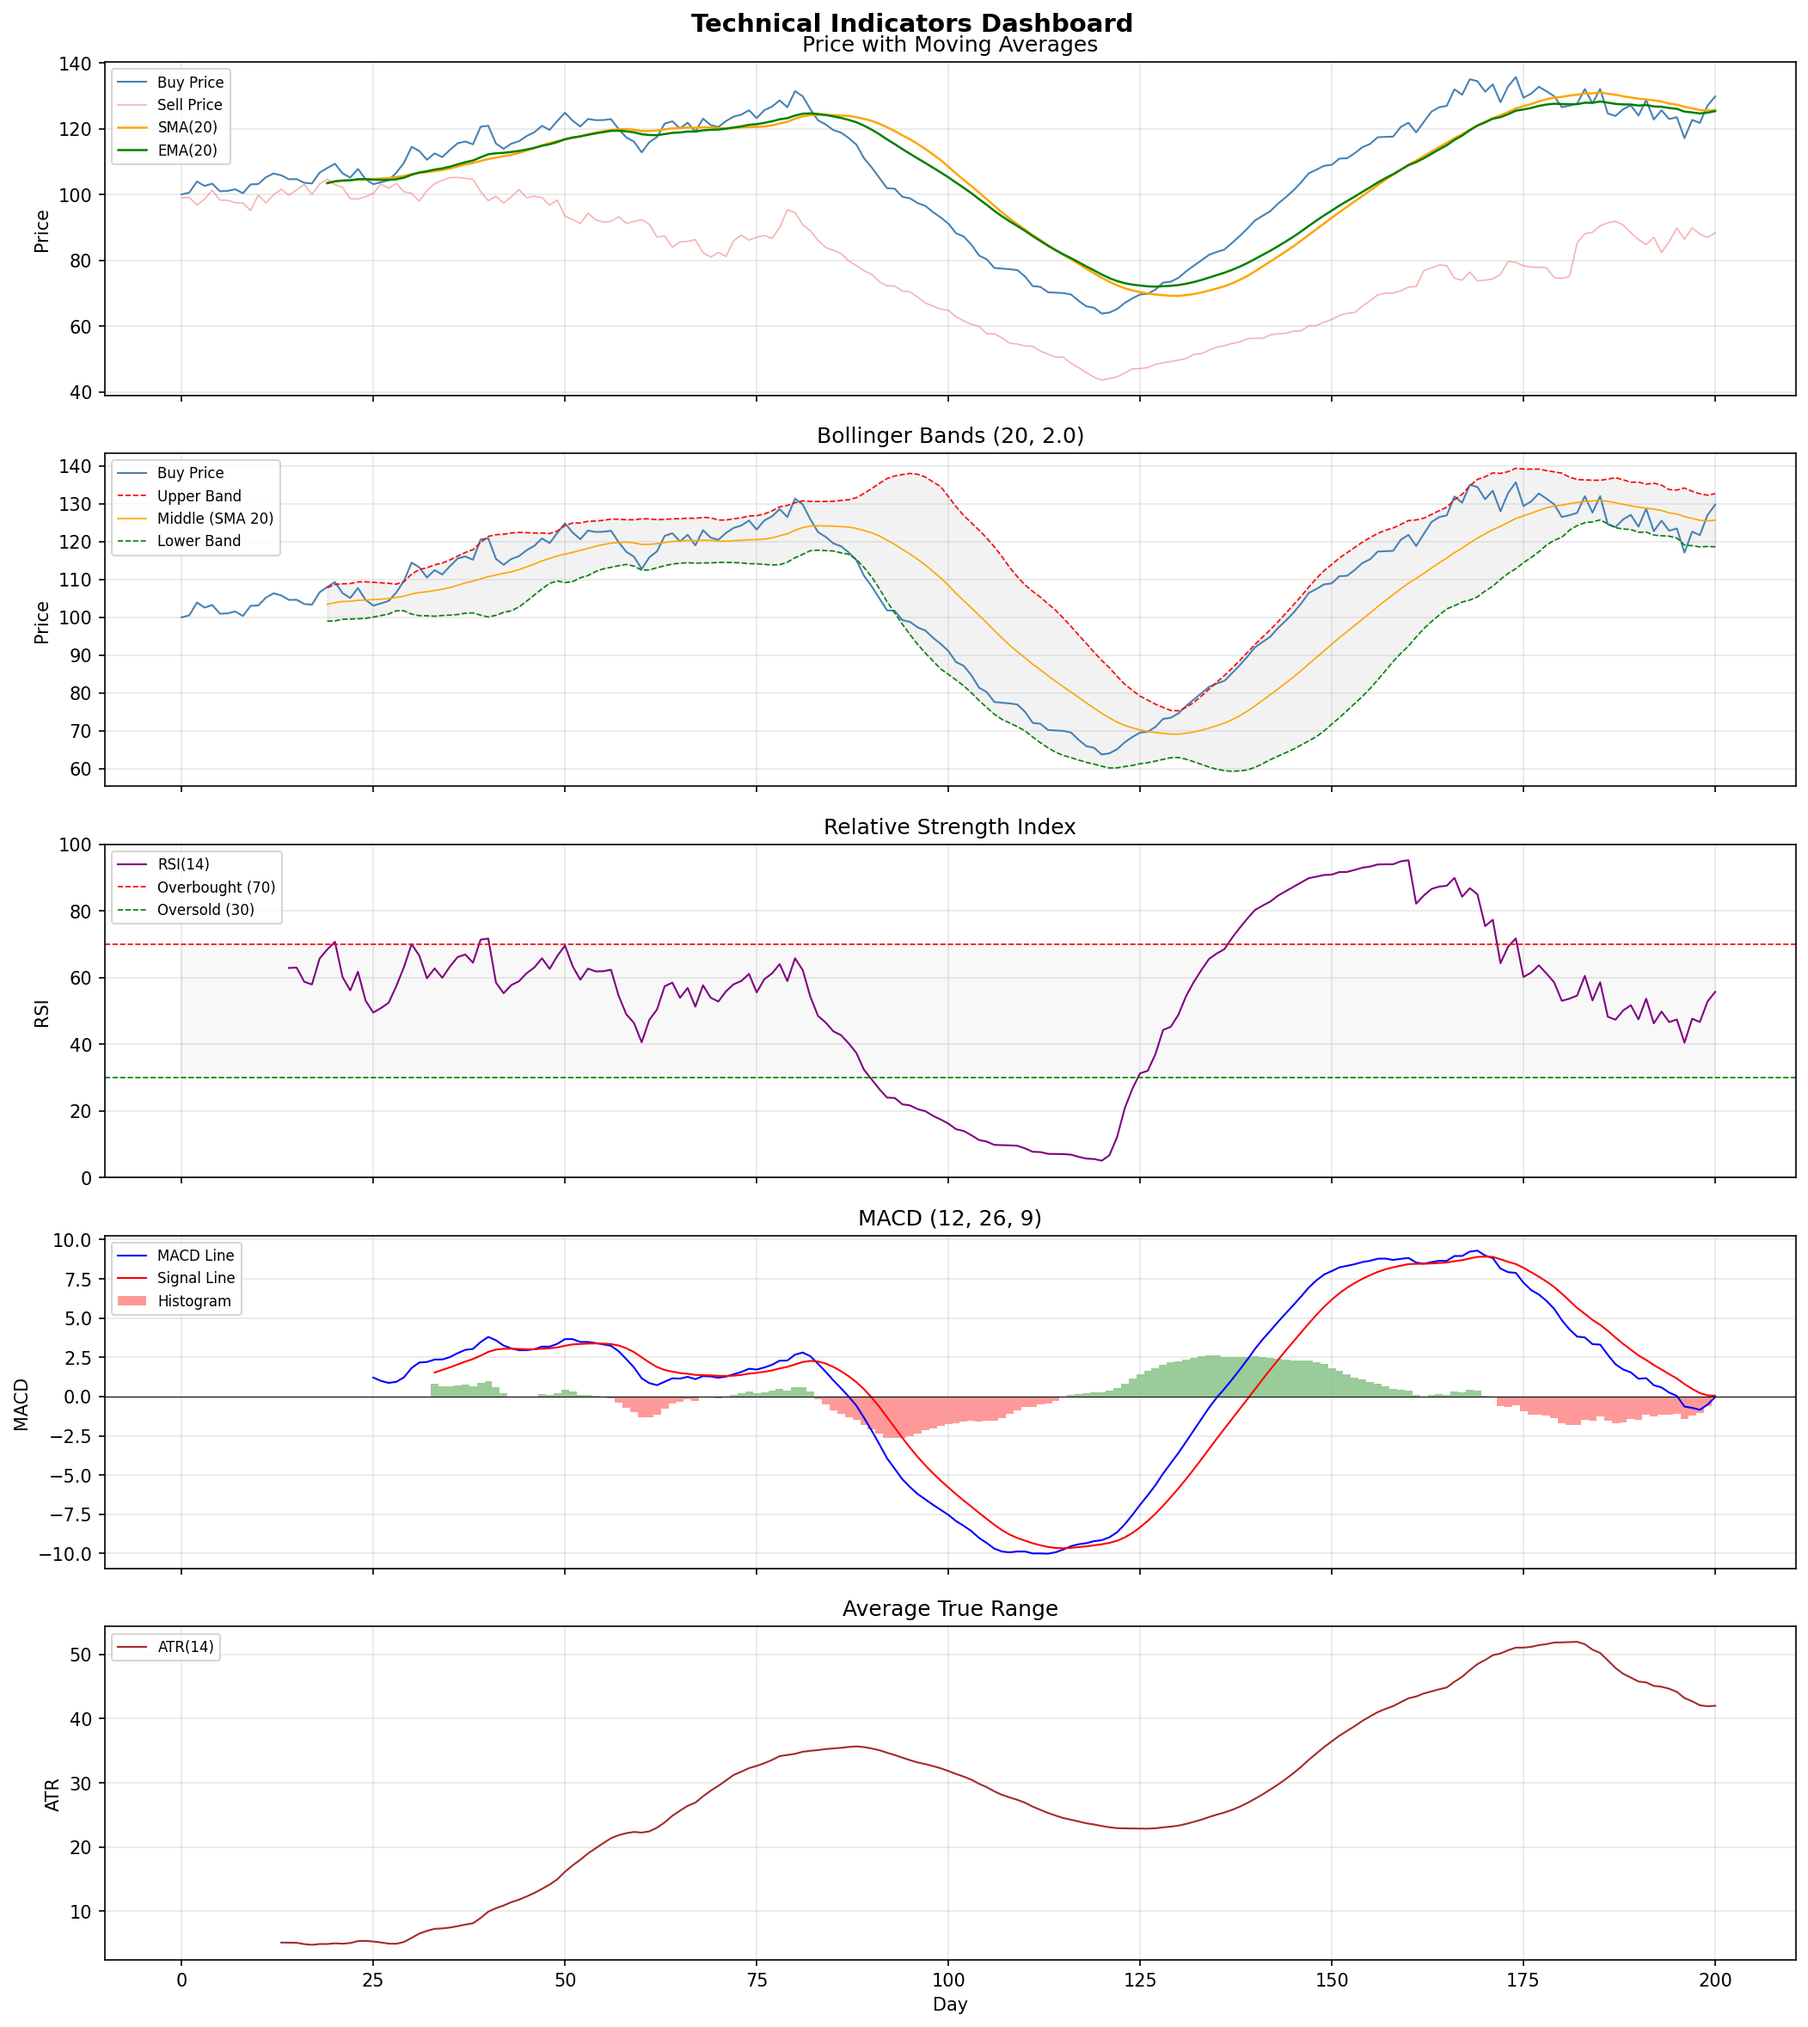
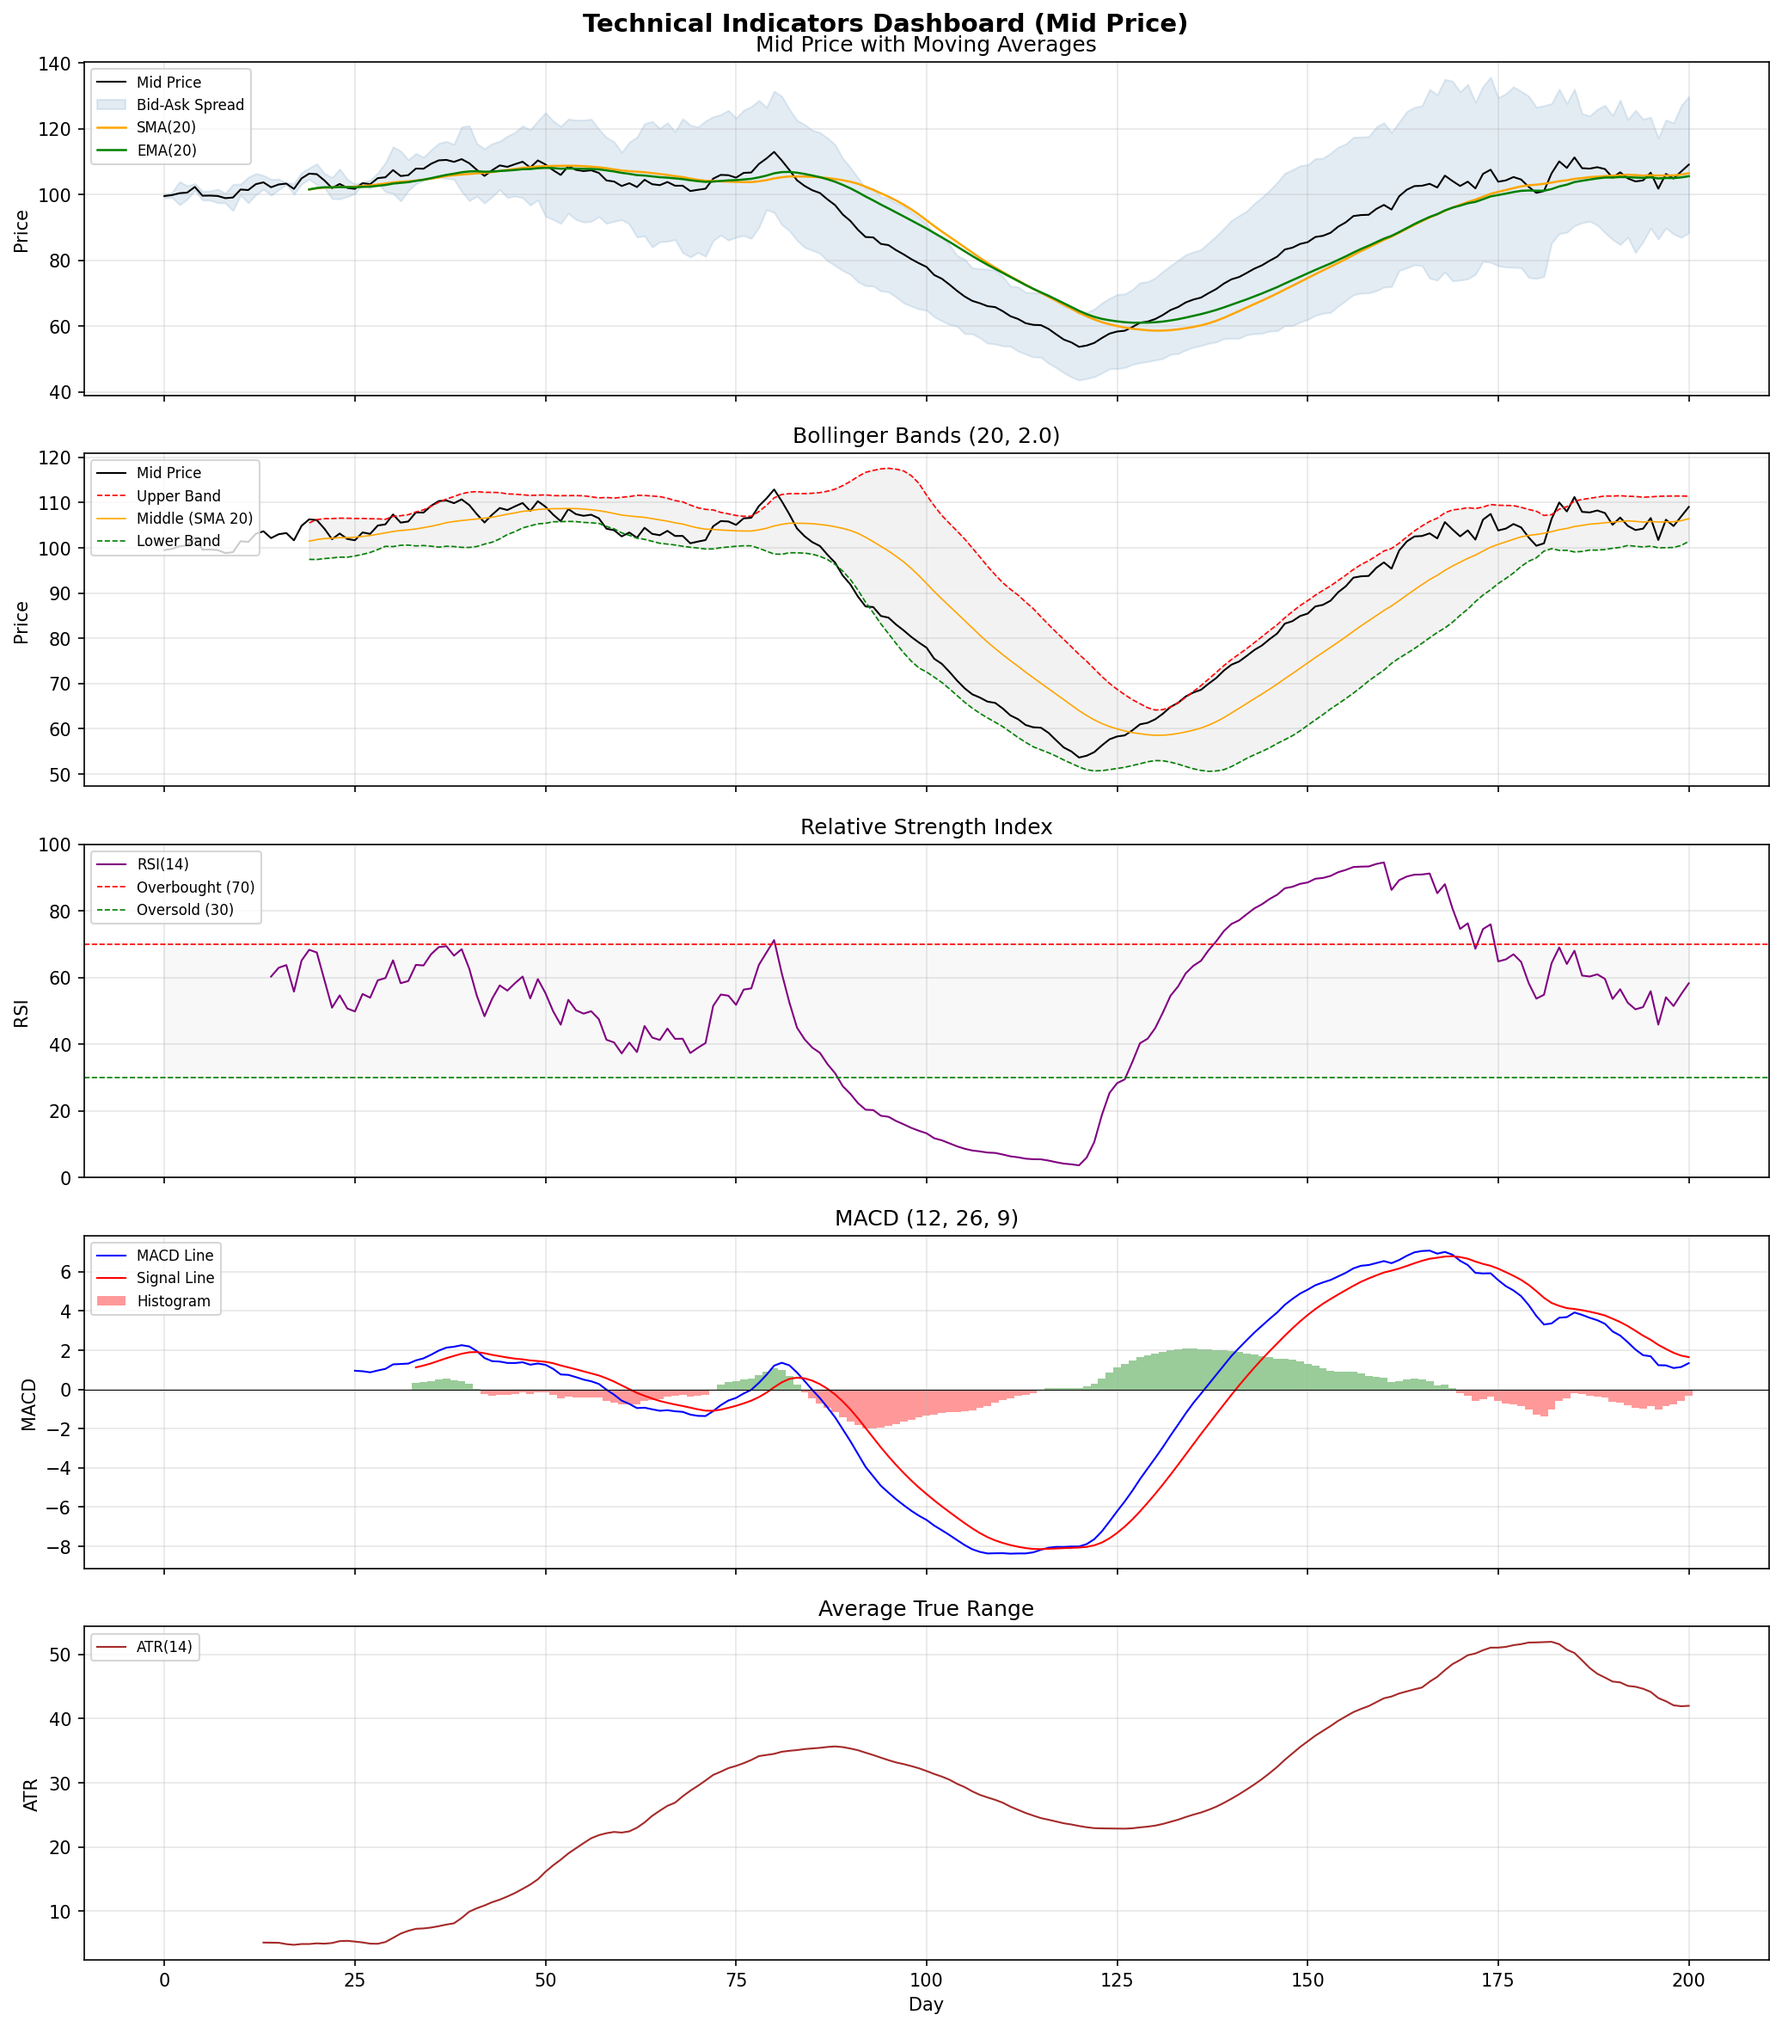
feat: mid price api

diff --git a/src/MarketData.cpp b/src/MarketData.cpp
@@ -34,6 +34,12 @@ MarketData::MarketData(float startBuyPrice, float startSellPrice,
   sellPrices.push_back(startSellPrice);
 
   computePrices();
+
+  // Compute mid prices
+  midPrices.resize(buyPrices.size());
+  for (size_t i = 0; i < buyPrices.size(); i++) {
+    midPrices[i] = (buyPrices[i] + sellPrices[i]) / 2.0f;
+  }
 }
 
 void MarketData::computePrices() {
@@ -78,6 +84,17 @@ std::vector<float> MarketData::getSellPrices(int start, int end) {
 }
 
 int MarketData::getTotalDays() { return totalDays; }
+
+std::vector<float> MarketData::getMidPrices(int start, int end) {
+  if (end == -1) {
+    end = static_cast<int>(midPrices.size());
+  }
+  if (start < 0 || end > static_cast<int>(midPrices.size()) || start >= end) {
+    throw std::out_of_range("Invalid day range");
+  }
+  return std::vector<float>(midPrices.begin() + start,
+                            midPrices.begin() + end);
+}
 
 std::vector<float> MarketData::sliceResult(const std::vector<float>& data,
                                            int start, int end) {
@@ -229,4 +246,69 @@ std::vector<float> MarketData::getATR(int period, int start, int end) {
     indicatorCache[key] = indicators::atr(buyPrices, sellPrices, period);
   }
   return sliceResult(indicatorCache[key], start, end);
+}
+
+// Mid SMA
+std::vector<float> MarketData::getMidSMA(int period, int start, int end) {
+  std::string key = "mid_sma_" + std::to_string(period);
+  const auto& data = getCachedOrCompute(key, midPrices,
+      [period](const std::vector<float>& p) { return indicators::sma(p, period); });
+  return sliceResult(data, start, end);
+}
+
+// Mid EMA
+std::vector<float> MarketData::getMidEMA(int period, int start, int end) {
+  std::string key = "mid_ema_" + std::to_string(period);
+  const auto& data = getCachedOrCompute(key, midPrices,
+      [period](const std::vector<float>& p) { return indicators::ema(p, period); });
+  return sliceResult(data, start, end);
+}
+
+// Mid RSI
+std::vector<float> MarketData::getMidRSI(int period, int start, int end) {
+  std::string key = "mid_rsi_" + std::to_string(period);
+  const auto& data = getCachedOrCompute(key, midPrices,
+      [period](const std::vector<float>& p) { return indicators::rsi(p, period); });
+  return sliceResult(data, start, end);
+}
+
+// Mid MACD
+std::tuple<std::vector<float>, std::vector<float>, std::vector<float>>
+MarketData::getMidMACD(int fast, int slow, int signal, int start, int end) {
+  std::string base = "mid_macd_" + std::to_string(fast) + "_" +
+                     std::to_string(slow) + "_" + std::to_string(signal);
+  std::string keyLine = base + "_line";
+  std::string keySignal = base + "_signal";
+  std::string keyHist = base + "_hist";
+
+  if (indicatorCache.find(keyLine) == indicatorCache.end()) {
+    auto result = indicators::macd(midPrices, fast, slow, signal);
+    indicatorCache[keyLine] = std::move(result.macd_line);
+    indicatorCache[keySignal] = std::move(result.signal_line);
+    indicatorCache[keyHist] = std::move(result.histogram);
+  }
+  return {sliceResult(indicatorCache[keyLine], start, end),
+          sliceResult(indicatorCache[keySignal], start, end),
+          sliceResult(indicatorCache[keyHist], start, end)};
+}
+
+// Mid Bollinger Bands
+std::tuple<std::vector<float>, std::vector<float>, std::vector<float>>
+MarketData::getMidBollingerBands(int period, float std_dev, int start, int end) {
+  char buf[32];
+  std::snprintf(buf, sizeof(buf), "%.2f", std_dev);
+  std::string base = "mid_bb_" + std::to_string(period) + "_" + buf;
+  std::string keyUpper = base + "_upper";
+  std::string keyMiddle = base + "_middle";
+  std::string keyLower = base + "_lower";
+
+  if (indicatorCache.find(keyUpper) == indicatorCache.end()) {
+    auto result = indicators::bollinger(midPrices, period, std_dev);
+    indicatorCache[keyUpper] = std::move(result.upper);
+    indicatorCache[keyMiddle] = std::move(result.middle);
+    indicatorCache[keyLower] = std::move(result.lower);
+  }
+  return {sliceResult(indicatorCache[keyUpper], start, end),
+          sliceResult(indicatorCache[keyMiddle], start, end),
+          sliceResult(indicatorCache[keyLower], start, end)};
 }

diff --git a/plot_indicators.py b/plot_indicators.py
@@ -1,5 +1,7 @@
-"""Plot all technical indicators for a simulated market."""
+"""Plot all technical indicators for a simulated market using mid prices."""
 from __future__ import annotations
+
+import math
 
 import matplotlib.pyplot as plt
 
@@ -19,35 +21,36 @@ md = MarketData(
     seed=42,
 )
 
-days = list(range(len(md.getBuyPrices())))
+days = list(range(len(md.getMidPrices())))
+mid = md.getMidPrices()
 buy = md.getBuyPrices()
 sell = md.getSellPrices()
 
-# Fetch indicators
-sma_20 = md.getBuySMA(period=20)
-ema_20 = md.getBuyEMA(period=20)
-rsi_14 = md.getBuyRSI(period=14)
-macd_line, signal_line, histogram = md.getBuyMACD()
-bb_upper, bb_middle, bb_lower = md.getBuyBollingerBands(period=20)
+# Fetch indicators on mid prices
+sma_20 = md.getMidSMA(period=20)
+ema_20 = md.getMidEMA(period=20)
+rsi_14 = md.getMidRSI(period=14)
+macd_line, signal_line, histogram = md.getMidMACD()
+bb_upper, bb_middle, bb_lower = md.getMidBollingerBands(period=20)
 atr_14 = md.getATR(period=14)
 
 fig, axes = plt.subplots(5, 1, figsize=(14, 16), sharex=True)
-fig.suptitle("Technical Indicators Dashboard", fontsize=14, fontweight="bold")
+fig.suptitle("Technical Indicators Dashboard (Mid Price)", fontsize=14, fontweight="bold")
 
 # --- 1. Price + SMA/EMA ---
 ax = axes[0]
-ax.plot(days, buy, label="Buy Price", color="steelblue", linewidth=1)
-ax.plot(days, sell, label="Sell Price", color="lightcoral", linewidth=0.8, alpha=0.6)
+ax.plot(days, mid, label="Mid Price", color="black", linewidth=1)
+ax.fill_between(days, sell, buy, alpha=0.15, color="steelblue", label="Bid-Ask Spread")
 ax.plot(days, sma_20, label="SMA(20)", color="orange", linewidth=1.2)
 ax.plot(days, ema_20, label="EMA(20)", color="green", linewidth=1.2)
 ax.set_ylabel("Price")
 ax.legend(loc="upper left", fontsize=8)
-ax.set_title("Price with Moving Averages")
+ax.set_title("Mid Price with Moving Averages")
 ax.grid(alpha=0.3)
 
 # --- 2. Bollinger Bands ---
 ax = axes[1]
-ax.plot(days, buy, label="Buy Price", color="steelblue", linewidth=1)
+ax.plot(days, mid, label="Mid Price", color="black", linewidth=1)
 ax.plot(days, bb_upper, label="Upper Band", color="red", linewidth=0.8, linestyle="--")
 ax.plot(days, bb_middle, label="Middle (SMA 20)", color="orange", linewidth=0.8)
 ax.plot(days, bb_lower, label="Lower Band", color="green", linewidth=0.8, linestyle="--")
@@ -73,8 +76,10 @@ ax.grid(alpha=0.3)
 ax = axes[3]
 ax.plot(days, macd_line, label="MACD Line", color="blue", linewidth=1)
 ax.plot(days, signal_line, label="Signal Line", color="red", linewidth=1)
-colors = ["green" if h >= 0 else "red" for h in histogram]
-ax.bar(days, histogram, color=colors, alpha=0.4, width=1.0, label="Histogram")
+# Filter NaN for histogram bar colors
+colors = ["green" if not math.isnan(h) and h >= 0 else "red" for h in histogram]
+ax.bar(days, [0.0 if math.isnan(h) else h for h in histogram],
+       color=colors, alpha=0.4, width=1.0, label="Histogram")
 ax.axhline(y=0, color="black", linewidth=0.5)
 ax.set_ylabel("MACD")
 ax.legend(loc="upper left", fontsize=8)

diff --git a/src/main.cpp b/src/main.cpp
@@ -88,6 +88,8 @@ PYBIND11_MODULE(_core, m) {
            py::arg("end") = -1)
       .def("getSellPrices", &MarketData::getSellPrices, py::arg("start") = 0,
            py::arg("end") = -1)
+      .def("getMidPrices", &MarketData::getMidPrices, py::arg("start") = 0,
+           py::arg("end") = -1)
       .def("getTotalDays", &MarketData::getTotalDays)
       // SMA
       .def("getBuySMA", &MarketData::getBuySMA, py::arg("period") = 20,
@@ -120,6 +122,23 @@ PYBIND11_MODULE(_core, m) {
            py::arg("start") = 0, py::arg("end") = -1)
       // ATR
       .def("getATR", &MarketData::getATR, py::arg("period") = 14,
+           py::arg("start") = 0, py::arg("end") = -1)
+      // Mid SMA
+      .def("getMidSMA", &MarketData::getMidSMA, py::arg("period") = 20,
+           py::arg("start") = 0, py::arg("end") = -1)
+      // Mid EMA
+      .def("getMidEMA", &MarketData::getMidEMA, py::arg("period") = 20,
+           py::arg("start") = 0, py::arg("end") = -1)
+      // Mid RSI
+      .def("getMidRSI", &MarketData::getMidRSI, py::arg("period") = 14,
+           py::arg("start") = 0, py::arg("end") = -1)
+      // Mid MACD
+      .def("getMidMACD", &MarketData::getMidMACD, py::arg("fast") = 12,
+           py::arg("slow") = 26, py::arg("signal") = 9,
+           py::arg("start") = 0, py::arg("end") = -1)
+      // Mid Bollinger Bands
+      .def("getMidBollingerBands", &MarketData::getMidBollingerBands,
+           py::arg("period") = 20, py::arg("std_dev") = 2.0f,
            py::arg("start") = 0, py::arg("end") = -1);
 
 #ifdef VERSION_INFO

diff --git a/src/MarketData.h b/src/MarketData.h
@@ -18,6 +18,7 @@ public:
 
   std::vector<float> getBuyPrices(int start = 0, int end = -1);
   std::vector<float> getSellPrices(int start = 0, int end = -1);
+  std::vector<float> getMidPrices(int start = 0, int end = -1);
   int getTotalDays();
 
   // Technical indicators - Buy
@@ -42,6 +43,17 @@ public:
       getSellBollingerBands(int period = 20, float std_dev = 2.0f,
                             int start = 0, int end = -1);
 
+  // Technical indicators - Mid (midpoint of buy and sell)
+  std::vector<float> getMidSMA(int period = 20, int start = 0, int end = -1);
+  std::vector<float> getMidEMA(int period = 20, int start = 0, int end = -1);
+  std::vector<float> getMidRSI(int period = 14, int start = 0, int end = -1);
+  std::tuple<std::vector<float>, std::vector<float>, std::vector<float>>
+      getMidMACD(int fast = 12, int slow = 26, int signal = 9,
+                 int start = 0, int end = -1);
+  std::tuple<std::vector<float>, std::vector<float>, std::vector<float>>
+      getMidBollingerBands(int period = 20, float std_dev = 2.0f,
+                           int start = 0, int end = -1);
+
   // ATR uses both price series
   std::vector<float> getATR(int period = 14, int start = 0, int end = -1);
 
@@ -49,6 +61,7 @@ private:
   std::vector<std::shared_ptr<Regime>> dayRegimes;
   std::vector<float> buyPrices;
   std::vector<float> sellPrices;
+  std::vector<float> midPrices;
   int totalDays;
   std::mt19937 rng;
 
